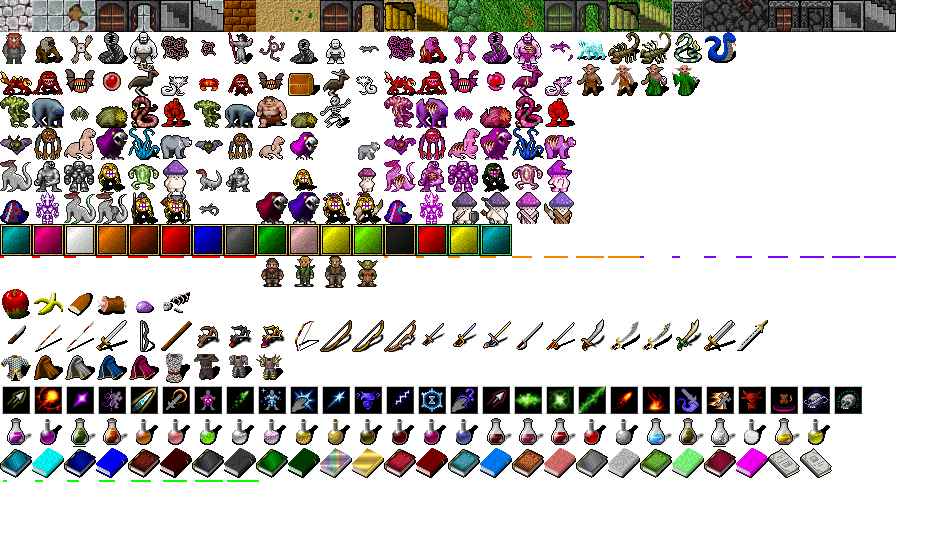
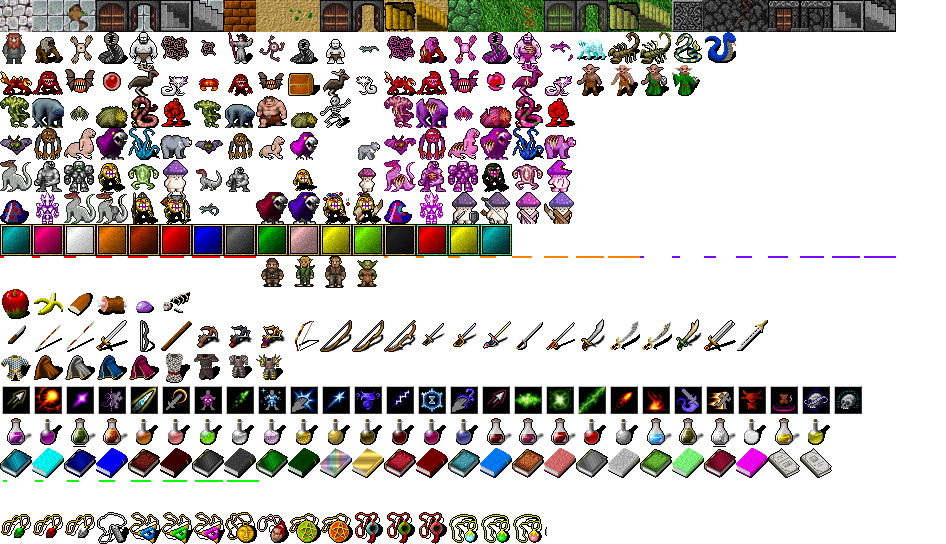
add lore

Changed region(s): [[0.0, 0.9375, 0.5825, 1.0]]

diff --git a/assets/items.js b/assets/items.js
@@ -485,6 +485,94 @@ Game.ItemRepository.define('gladiatorarmor', {
   }
 });
 
+Game.ItemRepository.define('amuletofstr', {
+  name: "amulet of strength",
+  Symbol: "amulet"+(Math.floor(Math.random()*16)+1),
+  level: 1,
+  price: 6,
+  type: "amulet",
+  options: {
+    str: 1,
+  }
+});
+
+Game.ItemRepository.define('amuletofagi', {
+  name: "amulet of agility",
+  Symbol: "amulet"+(Math.floor(Math.random()*16)+1),
+  level: 1,
+  price: 6,
+  type: "amulet",
+  options: {
+    agi: 1,
+  }
+});
+
+Game.ItemRepository.define('amuletofcon', {
+  name: "amulet of constitution",
+  Symbol: "amulet"+(Math.floor(Math.random()*16)+1),
+  level: 1,
+  price: 6,
+  type: "amulet",
+  options: {
+    con: 1,
+  }
+});
+
+Game.ItemRepository.define('amuletofint', {
+  name: "amulet of intelligence",
+  Symbol: "amulet"+(Math.floor(Math.random()*16)+1),
+  level: 1,
+  price: 6,
+  type: "amulet",
+  options: {
+    int: 1,
+  }
+});
+
+Game.ItemRepository.define('mediumamuletofstr', {
+  name: "medium amulet of strength",
+  Symbol: "amulet"+(Math.floor(Math.random()*16)+1),
+  level: 3,
+  price: 10,
+  type: "amulet",
+  options: {
+    str: 2,
+  }
+});
+
+Game.ItemRepository.define('mediumamuletofagi', {
+  name: "medium amulet of agility",
+  Symbol: "amulet"+(Math.floor(Math.random()*16)+1),
+  level: 3,
+  price: 10,
+  type: "amulet",
+  options: {
+    agi: 2,
+  }
+});
+
+Game.ItemRepository.define('mediumamuletofcon', {
+  name: "medium amulet of constitution",
+  Symbol: "amulet"+(Math.floor(Math.random()*16)+1),
+  level: 3,
+  price: 10,
+  type: "amulet",
+  options: {
+    con: 2,
+  }
+});
+
+Game.ItemRepository.define('mediumamuletofint', {
+  name: "medium amulet of intelligence",
+  Symbol: "amulet"+(Math.floor(Math.random()*16)+1),
+  level: 3,
+  price: 10,
+  type: "amulet",
+  options: {
+    int: 2,
+  }
+});
+
 //potions
 Game.ItemRepository.define('smallstrpotion', {
   name: "small potion",

diff --git a/assets/item.js b/assets/item.js
@@ -163,7 +163,16 @@ Game.doItem = function(action) {
         Game.messagebox.sendMessage("You already have armor.");
         return;
       }
-    } else if (Game.inventory[num].isWielded() == 0 && itemtype == "book") {
+    } else if (Game.inventory[num].isWielded() == 0 && itemtype == "amulet") {
+    if (typeof Game.entity[0].equipment.neck === 'undefined') {
+      Game.entity[0].equipment.neck = Game.inventory[num];
+      Game.doItemOptions();
+      Game.messagebox.sendMessage("You wielded the " + Game.inventory[num].name + ".");
+    } else {
+      Game.messagebox.sendMessage("You already have amulet.");
+      return;
+    }
+  } else if (Game.inventory[num].isWielded() == 0 && itemtype == "book") {
       Game.entity[0].books.push(Game.inventory[num]);
       Game.doItemOptions();
       Game.messagebox.sendMessage("You wielded the " + Game.inventory[num].name + ".");
@@ -174,6 +183,8 @@ Game.doItem = function(action) {
         delete Game.entity[0].equipment.lefthand;
       } else if (Game.entity[0].equipment.body == Game.inventory[num]) {
         delete Game.entity[0].equipment.body;
+      } else if (Game.entity[0].equipment.neck == Game.inventory[num]) {
+        delete Game.entity[0].equipment.neck;
       }
       if (typeof Game.entity[0].books !== 'undefined') {
         for (let i = 0; i < Game.entity[0].books.length; i++) {
@@ -346,7 +357,7 @@ Game.drawBar = function() {
           _color = "redwield";
         }
       }
-      if (itemtype == "armor") {
+      if (itemtype == "armor"||itemtype == "amulet") {
         if (Game.inventory[i].isWielded() == 0) {
           _color = "yellow";
         } else {

diff --git a/help.html b/help.html
@@ -17,8 +17,8 @@
 </head>
 <details>
     <summary>Intro</summary>
-    <p>Explore eternal dungeon, try to survive. You can play it online 
-    <a target="_blank" rel="noopener noreferrer" href="https://ganochenkodg.github.io/roguelike-js/">here</a>
+    <p>You are a wizard loser, kicked out of the academy. In old myths you found information that in the depths of an endless dungeon a book of absolute magic is hidden. Try to find her and not die. Use everything that comes to you, there is no turning back...</p>
+    <p>Play it <a target="_blank" rel="noopener noreferrer" href="https://ganochenkodg.github.io/roguelike-js/">here</a>
     .</p>
     <p>Thanks to DC:SS for the graphic tiles.</p>
 </details>

diff --git a/assets/tilemap.js b/assets/tilemap.js
@@ -163,6 +163,24 @@ var gameTilemap = {
 "book24": [736,448],
 "book25": [768,448],  
 "book26": [800,448],
+//amulets
+"amulet1": [0,512],
+"amulet2": [32,512],
+"amulet3": [64,512],
+"amulet4": [96,512],
+"amulet5": [128,512],
+"amulet6": [160,512],
+"amulet7": [192,512],
+"amulet8": [224,512],
+"amulet9": [256,512],
+"amulet10": [288,512],
+"amulet11": [320,512],
+"amulet12": [352,512],
+"amulet13": [384,512],
+"amulet14": [416,512],
+"amulet15": [448,512],
+"amulet16": [480,512],
+"amulet17": [512,512],
 //weapon
   "knife": [0,320],
   "spear": [32,320],

diff --git a/README.md b/README.md
@@ -2,7 +2,8 @@
 
 ## Intro.
 
-Explore eternal dungeon, try to survive.
+You are a wizard loser, kicked out of the academy. In old myths you found information that in the depths of an endless dungeon a book of absolute magic is hidden. Try to find her and not die. Use everything that comes to you, there is no turning back...
+
 You can play it online [here](https://ganochenkodg.github.io/roguelike-js/).
 
 
